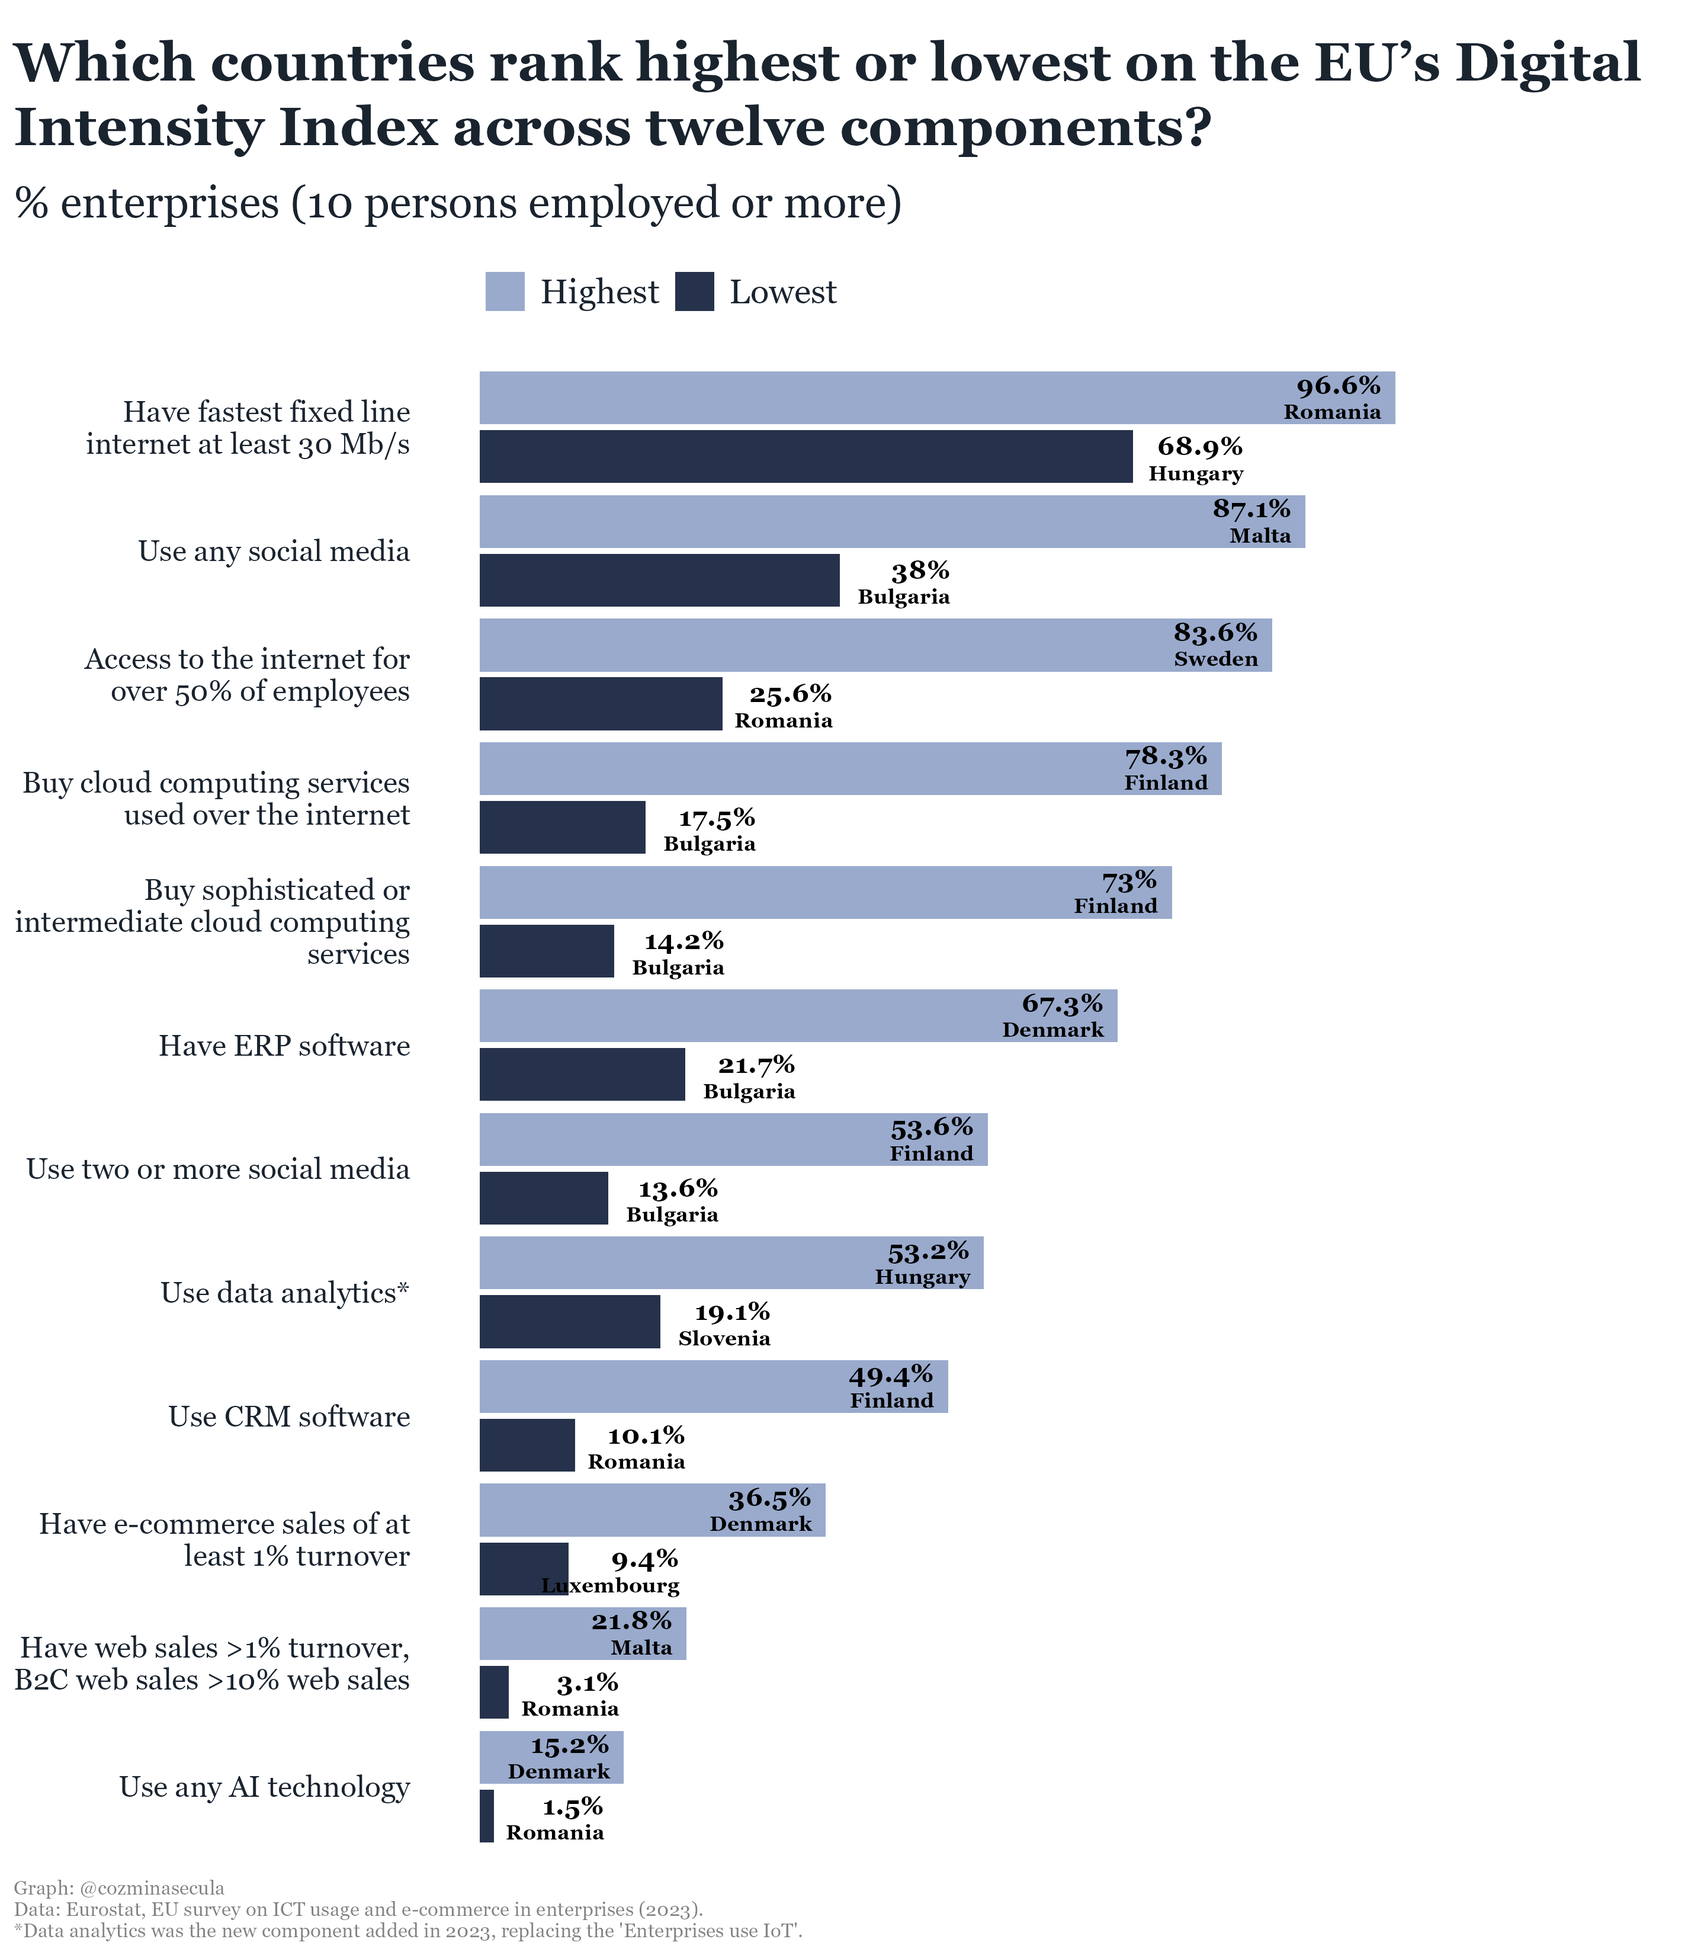
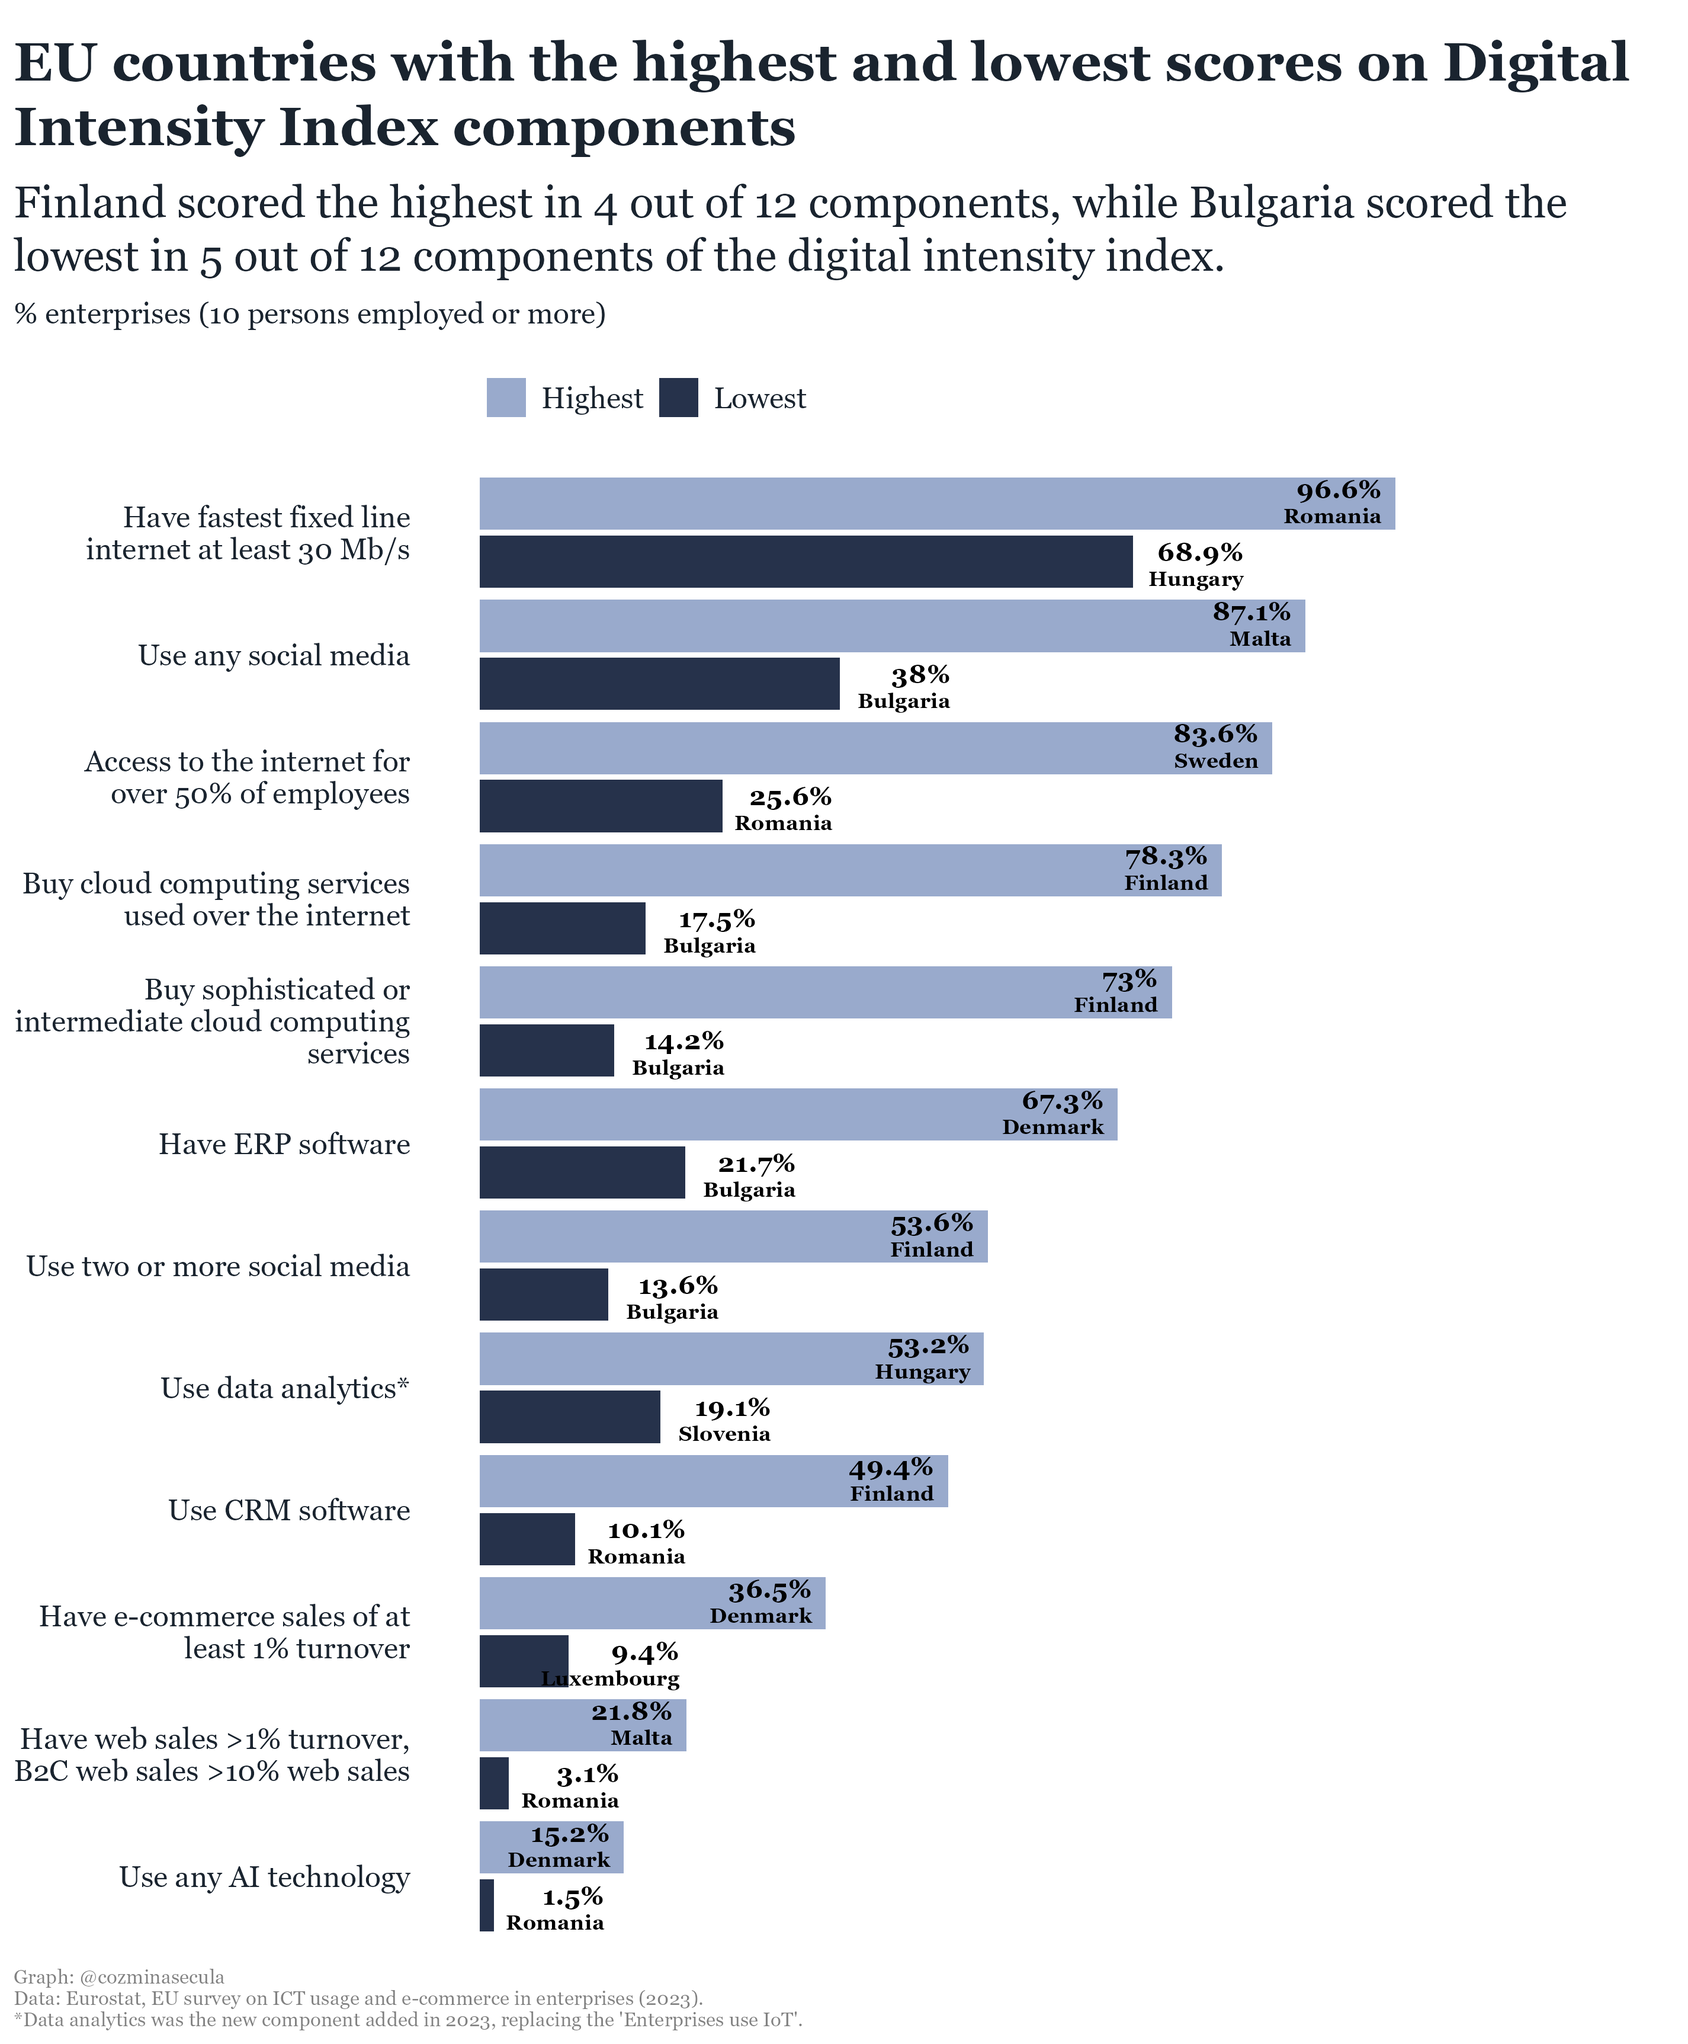
update

diff --git a/docs/posts/eurostat_statistics/dii_eu_components_2023.html b/docs/posts/eurostat_statistics/dii_eu_components_2023.html
@@ -219,7 +219,7 @@ pre > code.sourceCode > span > a:first-child::before { text-decoration: underlin
   </ul></li>
   <li><a href="#data-cleaning" id="toc-data-cleaning" class="nav-link" data-scroll-target="#data-cleaning">Data Cleaning</a></li>
   <li><a href="#create-data-frame-for-the-visualization" id="toc-create-data-frame-for-the-visualization" class="nav-link" data-scroll-target="#create-data-frame-for-the-visualization">Create Data Frame for the Visualization</a></li>
-  <li><a href="#which-countries-rank-highest-or-lowest-on-the-eus-digital-intensity-index-across-twelve-components" id="toc-which-countries-rank-highest-or-lowest-on-the-eus-digital-intensity-index-across-twelve-components" class="nav-link" data-scroll-target="#which-countries-rank-highest-or-lowest-on-the-eus-digital-intensity-index-across-twelve-components">Which countries rank highest or lowest on the EU’s digital intensity index across twelve components?</a></li>
+  <li><a href="#which-countries-rank-highest-or-lowest-on-the-eus-digital-intensity-index-12-components" id="toc-which-countries-rank-highest-or-lowest-on-the-eus-digital-intensity-index-12-components" class="nav-link" data-scroll-target="#which-countries-rank-highest-or-lowest-on-the-eus-digital-intensity-index-12-components">Which countries rank highest or lowest on the EU’s digital intensity index 12 components?</a></li>
   </ul>
 </nav>
 </nav>
@@ -260,7 +260,7 @@ pre > code.sourceCode > span > a:first-child::before { text-decoration: underlin
 <p>In <a href="https://cozminasecula.github.io/blog/posts/eurostat_statistics/dii_eu_2023.html">the previous post on analyzing EU’s Digital Intensity Index</a>, I enumerated the 12 components of the index. As a result of learning more about the index’s components, I was curious to know how the enterprises that participated in the survey performed for each component.</p>
 <p>In this post, using data analysis and visualization techniques and tools, I analyze the components of the DII index for each EU country, specifically, I will answer the question:</p>
 <ul>
-<li><strong>Which countries rank highest or lowest on the EU’s digital intensity index across twelve components?</strong></li>
+<li><strong>Which countries rank highest or lowest on the EU’s digital intensity index 12 components?</strong></li>
 </ul>
 <section id="prerequisites" class="level3">
 <h3 class="anchored" data-anchor-id="prerequisites">Prerequisites</h3>
@@ -715,8 +715,8 @@ $ Note           &lt;chr&gt; NA, NA, NA, NA, NA, NA, NA, NA, NA, NA, NA, NA, NA,
 <span id="cb10-16"><a href="#cb10-16" aria-hidden="true" tabindex="-1"></a>  <span class="fu">datatable</span>(<span class="at">options =</span> <span class="fu">list</span>(<span class="at">pageLength =</span> <span class="dv">5</span>, <span class="at">scrollY =</span> <span class="cn">TRUE</span>))</span></code><button title="Copy to Clipboard" class="code-copy-button"><i class="bi"></i></button></pre></div>
 </details>
 <div class="cell-output-display">
-<div class="datatables html-widget html-fill-item-overflow-hidden html-fill-item" id="htmlwidget-810fd825402202fc4c7d" style="width:100%;height:auto;"></div>
-<script type="application/json" data-for="htmlwidget-810fd825402202fc4c7d">{"x":{"filter":"none","vertical":false,"data":[["1","2","3","4","5","6","7","8","9"],["Romania","Bulgaria","Greece","Netherlands","Finland","Denmark","Finland","Netherlands","Sweden"],["Access to the internet for over 50% of employees","Access to the internet for over 50% of employees","Access to the internet for over 50% of employees","Use CRM software","Use CRM software","Access to the internet for over 50% of employees","Access to the internet for over 50% of employees","Access to the internet for over 50% of employees","Access to the internet for over 50% of employees"],[25.6,33.1,33.6,48.4,49.4,73.7,76,78,83.59999999999999],[48.2,48.2,48.2,19.4,19.4,48.2,48.2,48.2,48.2],[55.8,55.8,55.8,30.2,30.2,55.8,55.8,55.8,55.8],[7.6,7.6,7.6,10.8,10.8,7.6,7.6,7.6,7.6],[36.8,36.8,36.8,3.2,3.2,36.8,36.8,36.8,36.8],[67.2,67.2,67.2,46.4,46.4,67.2,67.2,67.2,67.2],[true,true,true,true,true,true,true,true,true]],"container":"<table class=\"display\">\n  <thead>\n    <tr>\n      <th> <\/th>\n      <th>Country<\/th>\n      <th>Indicator_code<\/th>\n      <th>Value<\/th>\n      <th>Q1<\/th>\n      <th>Q3<\/th>\n      <th>IQR<\/th>\n      <th>Lower_Bound<\/th>\n      <th>Upper_Bound<\/th>\n      <th>Outlier<\/th>\n    <\/tr>\n  <\/thead>\n<\/table>","options":{"pageLength":5,"scrollY":true,"columnDefs":[{"className":"dt-right","targets":[3,4,5,6,7,8]},{"orderable":false,"targets":0}],"order":[],"autoWidth":false,"orderClasses":false,"lengthMenu":[5,10,25,50,100]}},"evals":[],"jsHooks":[]}</script>
+<div class="datatables html-widget html-fill-item-overflow-hidden html-fill-item" id="htmlwidget-8b9ea0f488bcf9704875" style="width:100%;height:auto;"></div>
+<script type="application/json" data-for="htmlwidget-8b9ea0f488bcf9704875">{"x":{"filter":"none","vertical":false,"data":[["1","2","3","4","5","6","7","8","9"],["Romania","Bulgaria","Greece","Netherlands","Finland","Denmark","Finland","Netherlands","Sweden"],["Access to the internet for over 50% of employees","Access to the internet for over 50% of employees","Access to the internet for over 50% of employees","Use CRM software","Use CRM software","Access to the internet for over 50% of employees","Access to the internet for over 50% of employees","Access to the internet for over 50% of employees","Access to the internet for over 50% of employees"],[25.6,33.1,33.6,48.4,49.4,73.7,76,78,83.59999999999999],[48.2,48.2,48.2,19.4,19.4,48.2,48.2,48.2,48.2],[55.8,55.8,55.8,30.2,30.2,55.8,55.8,55.8,55.8],[7.6,7.6,7.6,10.8,10.8,7.6,7.6,7.6,7.6],[36.8,36.8,36.8,3.2,3.2,36.8,36.8,36.8,36.8],[67.2,67.2,67.2,46.4,46.4,67.2,67.2,67.2,67.2],[true,true,true,true,true,true,true,true,true]],"container":"<table class=\"display\">\n  <thead>\n    <tr>\n      <th> <\/th>\n      <th>Country<\/th>\n      <th>Indicator_code<\/th>\n      <th>Value<\/th>\n      <th>Q1<\/th>\n      <th>Q3<\/th>\n      <th>IQR<\/th>\n      <th>Lower_Bound<\/th>\n      <th>Upper_Bound<\/th>\n      <th>Outlier<\/th>\n    <\/tr>\n  <\/thead>\n<\/table>","options":{"pageLength":5,"scrollY":true,"columnDefs":[{"className":"dt-right","targets":[3,4,5,6,7,8]},{"orderable":false,"targets":0}],"order":[],"autoWidth":false,"orderClasses":false,"lengthMenu":[5,10,25,50,100]}},"evals":[],"jsHooks":[]}</script>
 </div>
 </div>
 <p>In Romania, Bulgaria, and Greece, the proportion of enterprises where more than 50% of employees have internet access for business purposes is the lowest, deviating significantly from the overall pattern. Conversely, Sweden, the Netherlands, Denmark, and Finland exhibit the highest proportions of such enterprises, also deviating from the overall pattern. Regarding the use of Customer Relationship Management (CRM) software, Finland and the Netherland stand out with the highest proportions of enterprises using CRM, again deviating from the overall pattern.</p>
@@ -754,13 +754,13 @@ $ Note           &lt;chr&gt; NA, NA, NA, NA, NA, NA, NA, NA, NA, NA, NA, NA, NA,
 <span id="cb11-23"><a href="#cb11-23" aria-hidden="true" tabindex="-1"></a>  <span class="fu">datatable</span>(<span class="at">options =</span> <span class="fu">list</span>(<span class="at">pageLength =</span> <span class="dv">5</span>, <span class="at">scrollY =</span> <span class="cn">TRUE</span>))</span></code><button title="Copy to Clipboard" class="code-copy-button"><i class="bi"></i></button></pre></div>
 </details>
 <div class="cell-output-display">
-<div class="datatables html-widget html-fill-item-overflow-hidden html-fill-item" id="htmlwidget-4319468b36787d0f8008" style="width:100%;height:auto;"></div>
-<script type="application/json" data-for="htmlwidget-4319468b36787d0f8008">{"x":{"filter":"none","vertical":false,"data":[["1","2","3","4","5","6","7","8","9","10","11","12","13","14","15","16","17","18","19","20","21","22","23","24"],["Romania","Malta","Sweden","Finland","Finland","Hungary","Denmark","Finland","Hungary","Finland","Bulgaria","Denmark","Romania","Malta","Bulgaria","Slovenia","Bulgaria","Denmark","Bulgaria","Bulgaria","Romania","Luxembourg","Romania","Romania"],["Have fastest fixed line internet at least 30 Mb/s","Use any social media","Access to the internet for over 50% of employees","Buy cloud computing services used over the internet","Buy sophisticated or intermediate cloud computing services","Have fastest fixed line internet at least 30 Mb/s","Have ERP software","Use two or more social media","Use data analytics*","Use CRM software","Use any social media","Have e-commerce sales of at least 1% turnover","Access to the internet for over 50% of employees","Have web sales &gt;1% turnover, B2C web sales &gt;10% web sales","Have ERP software","Use data analytics*","Buy cloud computing services used over the internet","Use any AI technology","Buy sophisticated or intermediate cloud computing services","Use two or more social media","Use CRM software","Have e-commerce sales of at least 1% turnover","Have web sales &gt;1% turnover, B2C web sales &gt;10% web sales","Use any AI technology"],[96.59999999999999,87.09999999999999,83.59999999999999,78.3,73,68.90000000000001,67.3,53.6,53.2,49.4,38,36.5,25.6,21.8,21.7,19.1,17.5,15.2,14.2,13.6,10.1,9.4,3.1,1.5],["Highest","Highest","Highest","Highest","Highest","Lowest","Highest","Highest","Highest","Highest","Lowest","Highest","Lowest","Highest","Lowest","Lowest","Lowest","Highest","Lowest","Lowest","Lowest","Lowest","Lowest","Lowest"]],"container":"<table class=\"display\">\n  <thead>\n    <tr>\n      <th> <\/th>\n      <th>Country<\/th>\n      <th>Indicator_code<\/th>\n      <th>Value<\/th>\n      <th>Rank_value<\/th>\n    <\/tr>\n  <\/thead>\n<\/table>","options":{"pageLength":5,"scrollY":true,"columnDefs":[{"className":"dt-right","targets":3},{"orderable":false,"targets":0}],"order":[],"autoWidth":false,"orderClasses":false,"lengthMenu":[5,10,25,50,100]}},"evals":[],"jsHooks":[]}</script>
+<div class="datatables html-widget html-fill-item-overflow-hidden html-fill-item" id="htmlwidget-89a81cd45f3bd20994cb" style="width:100%;height:auto;"></div>
+<script type="application/json" data-for="htmlwidget-89a81cd45f3bd20994cb">{"x":{"filter":"none","vertical":false,"data":[["1","2","3","4","5","6","7","8","9","10","11","12","13","14","15","16","17","18","19","20","21","22","23","24"],["Romania","Malta","Sweden","Finland","Finland","Hungary","Denmark","Finland","Hungary","Finland","Bulgaria","Denmark","Romania","Malta","Bulgaria","Slovenia","Bulgaria","Denmark","Bulgaria","Bulgaria","Romania","Luxembourg","Romania","Romania"],["Have fastest fixed line internet at least 30 Mb/s","Use any social media","Access to the internet for over 50% of employees","Buy cloud computing services used over the internet","Buy sophisticated or intermediate cloud computing services","Have fastest fixed line internet at least 30 Mb/s","Have ERP software","Use two or more social media","Use data analytics*","Use CRM software","Use any social media","Have e-commerce sales of at least 1% turnover","Access to the internet for over 50% of employees","Have web sales &gt;1% turnover, B2C web sales &gt;10% web sales","Have ERP software","Use data analytics*","Buy cloud computing services used over the internet","Use any AI technology","Buy sophisticated or intermediate cloud computing services","Use two or more social media","Use CRM software","Have e-commerce sales of at least 1% turnover","Have web sales &gt;1% turnover, B2C web sales &gt;10% web sales","Use any AI technology"],[96.59999999999999,87.09999999999999,83.59999999999999,78.3,73,68.90000000000001,67.3,53.6,53.2,49.4,38,36.5,25.6,21.8,21.7,19.1,17.5,15.2,14.2,13.6,10.1,9.4,3.1,1.5],["Highest","Highest","Highest","Highest","Highest","Lowest","Highest","Highest","Highest","Highest","Lowest","Highest","Lowest","Highest","Lowest","Lowest","Lowest","Highest","Lowest","Lowest","Lowest","Lowest","Lowest","Lowest"]],"container":"<table class=\"display\">\n  <thead>\n    <tr>\n      <th> <\/th>\n      <th>Country<\/th>\n      <th>Indicator_code<\/th>\n      <th>Value<\/th>\n      <th>Rank_value<\/th>\n    <\/tr>\n  <\/thead>\n<\/table>","options":{"pageLength":5,"scrollY":true,"columnDefs":[{"className":"dt-right","targets":3},{"orderable":false,"targets":0}],"order":[],"autoWidth":false,"orderClasses":false,"lengthMenu":[5,10,25,50,100]}},"evals":[],"jsHooks":[]}</script>
 </div>
 </div>
 </section>
-<section id="which-countries-rank-highest-or-lowest-on-the-eus-digital-intensity-index-across-twelve-components" class="level2">
-<h2 class="anchored" data-anchor-id="which-countries-rank-highest-or-lowest-on-the-eus-digital-intensity-index-across-twelve-components">Which countries rank highest or lowest on the EU’s digital intensity index across twelve components?</h2>
+<section id="which-countries-rank-highest-or-lowest-on-the-eus-digital-intensity-index-12-components" class="level2">
+<h2 class="anchored" data-anchor-id="which-countries-rank-highest-or-lowest-on-the-eus-digital-intensity-index-12-components">Which countries rank highest or lowest on the EU’s digital intensity index 12 components?</h2>
 <div class="cell" data-layout-align="center">
 <details class="code-fold">
 <summary>Code</summary>

diff --git a/docs/posts.html b/docs/posts.html
@@ -258,7 +258,7 @@ window.Quarto = {
     </div>
 </div>
 <div class="list grid quarto-listing-cols-3">
-<div class="g-col-1" data-index="0" data-categories="data analysis,data visualization,eurostat,digital intensity index" data-listing-date-sort="1721768400000" data-listing-file-modified-sort="1721828820660" data-listing-date-modified-sort="NaN" data-listing-reading-time-sort="19" data-listing-word-count-sort="3633">
+<div class="g-col-1" data-index="0" data-categories="data analysis,data visualization,eurostat,digital intensity index" data-listing-date-sort="1721768400000" data-listing-file-modified-sort="1721843231816" data-listing-date-modified-sort="NaN" data-listing-reading-time-sort="19" data-listing-word-count-sort="3631">
 <a href="./posts/eurostat_statistics/dii_eu_components_2023.html" class="quarto-grid-link">
 <div class="quarto-grid-item card h-100 card-left">
 <p class="card-img-top">
